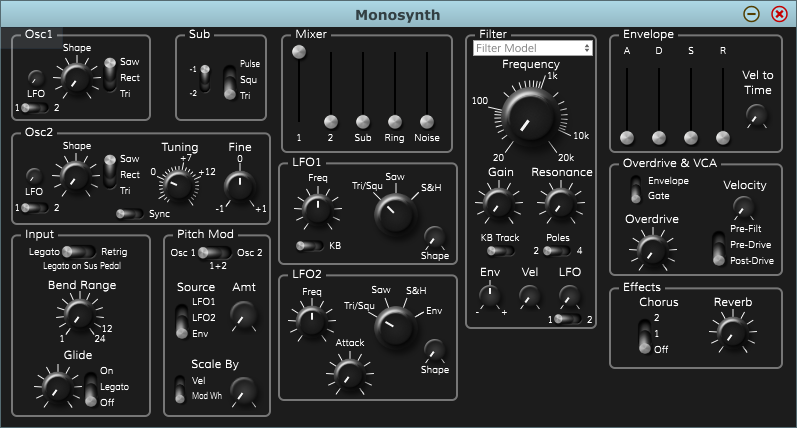
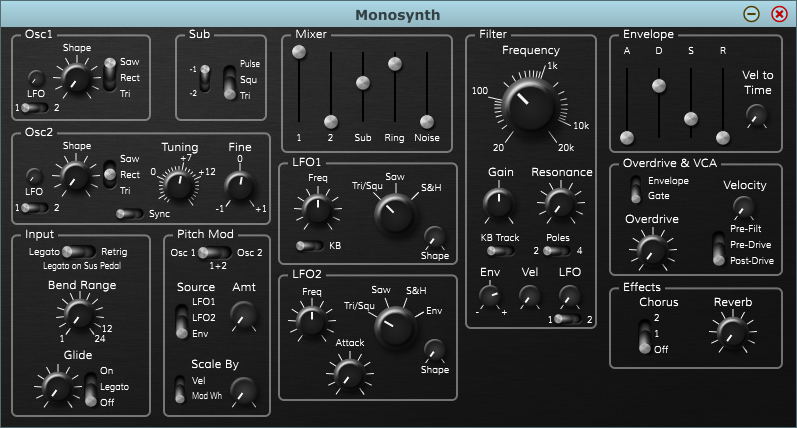
Added background image
Also other minor GUI tweaks

diff --git a/Source/Gui/LookAndFeel.cpp b/Source/Gui/LookAndFeel.cpp
@@ -65,7 +65,7 @@ namespace Gui {
 		float rOuter = dim / 2.0f;
 		if (bBigKnobStyle) {
 			r3 = rOuter * 2.0f/3.0f;
-			r2 = rOuter * 0.38f;
+			r2 = rOuter * 0.42f;
 			r1 = r2 * 0.25f;
 			return ImageCache::getFromMemory(BinaryData::bigknob88_png, BinaryData::bigknob88_pngSize);
 		}
